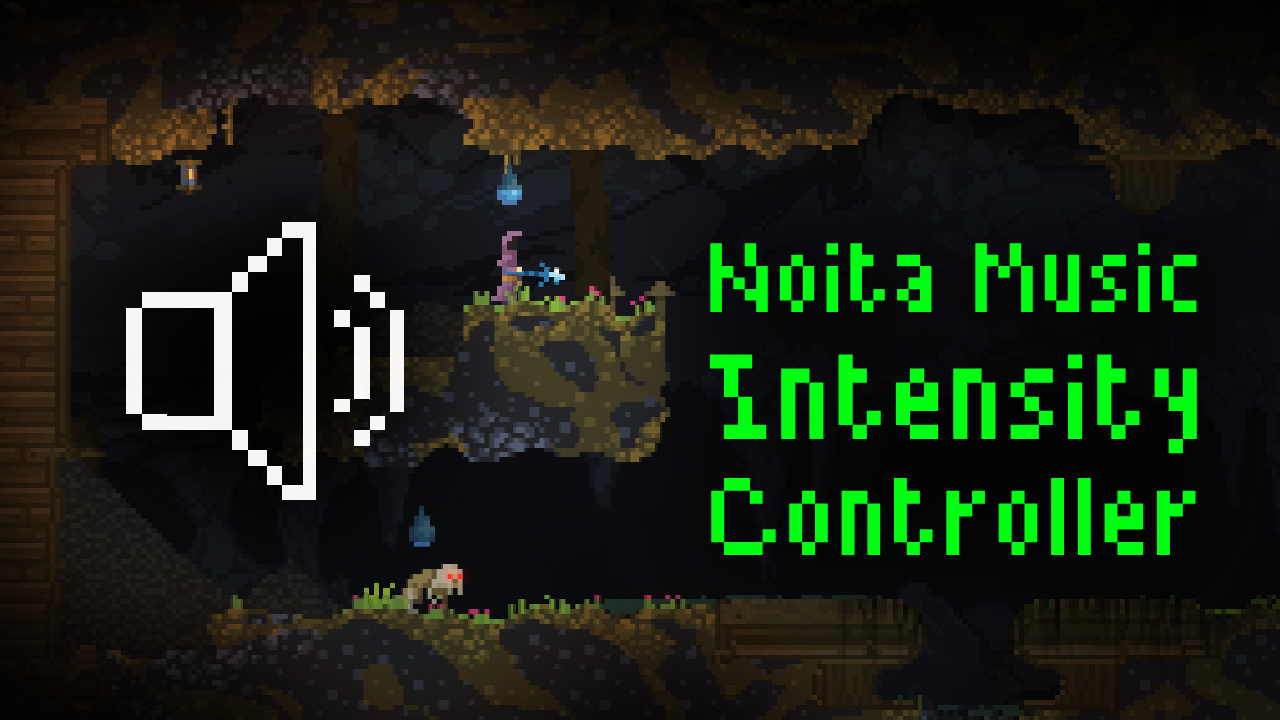
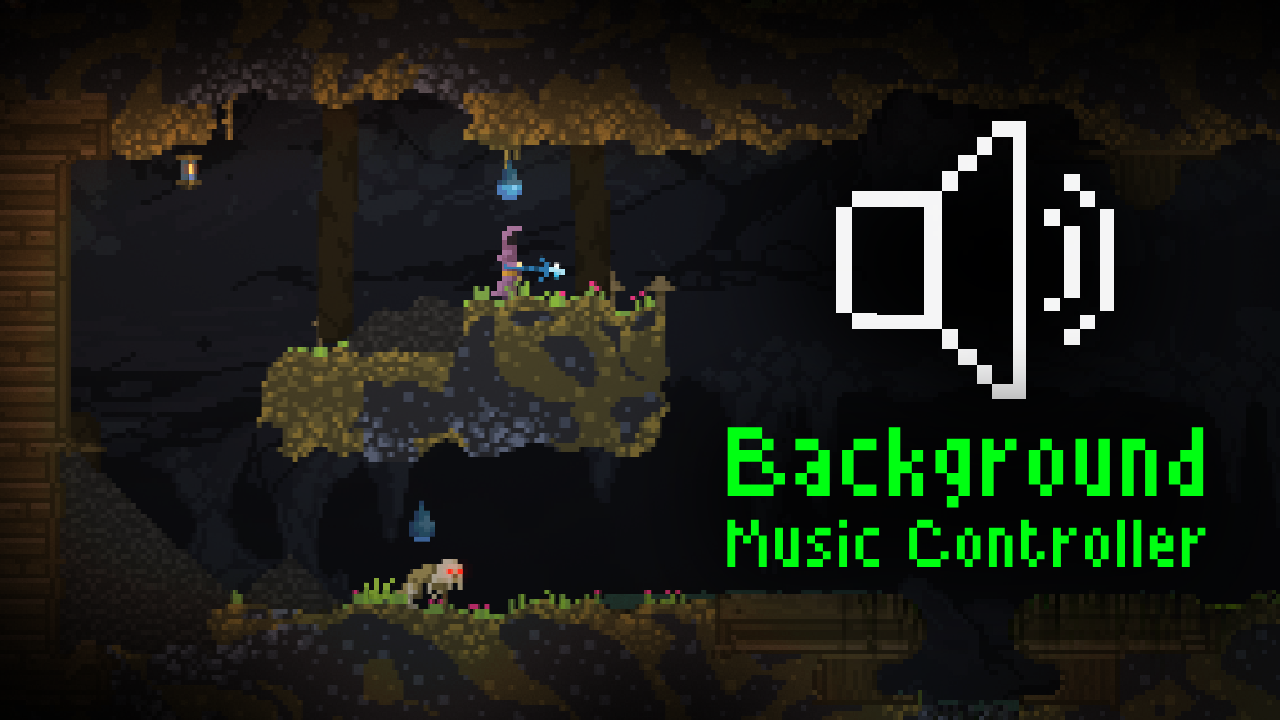
changed the mod name

diff --git a/README.md b/README.md
@@ -1,4 +1,4 @@
-# Noita Music Intensity Controller
+# Noita Background Music Controller
 This mod allows the music in each biome to automatically play in the background. You can adjust the intensity in the mod settings. NOTE: 0% does NOT mean the music will never play, it just means the music will try to stay quiet in calm moments. If you don't want the background music at all, turn your music volume all the way down in audio settings.
 
 Here's the link to the [Steam Workshop](https://steamcommunity.com/sharedfiles/filedetails/?id=3436708696) version of the mod.
